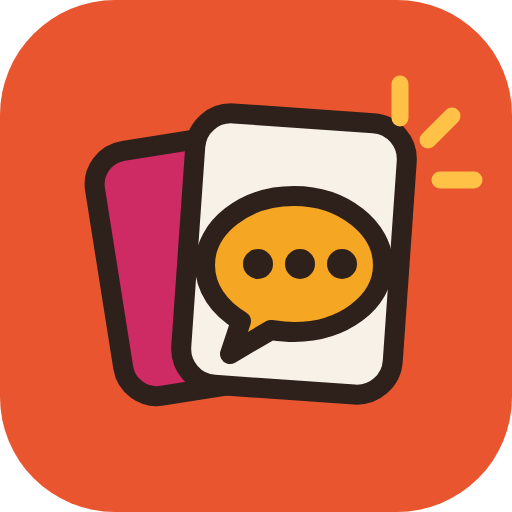
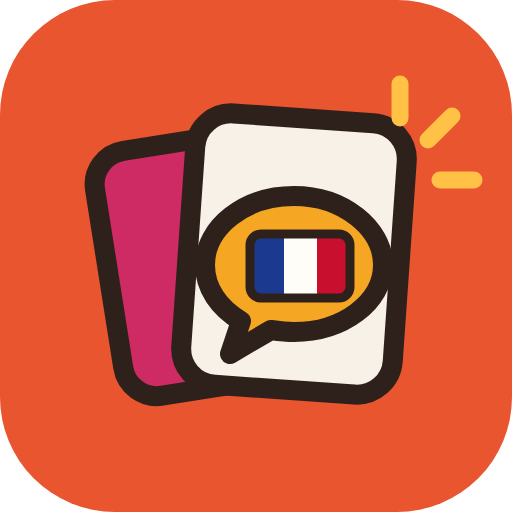
Score each card once, on its first answer, and put the flag in the bubble
A card missed twice then answered right showed as 1 von 3 richtig. The
score now counts each card once and keeps the first attempt, so that
round reads 0 von 1: a retry inside the round no longer repairs a miss.

The icon's speech bubble carries the tricolore, so the app says French at
a glance. The wordmark keeps its three dots: the flag twice is redundant
and muddy at small sizes.

Changed region(s): [[0.4688, 0.4375, 0.7188, 0.5938]]

diff --git a/src/App.tsx b/src/App.tsx
@@ -52,9 +52,12 @@ type Screen =
   | { name: 'placement' }
 
 interface SessionResult {
+  /** Cards answered, counted once each */
   reviewed: number
+  /** Cards right at the first attempt: later retries never repair a miss */
   right: number
   missed: StudyCard[]
+  scored: Set<string>
 }
 
 export default function App() {
@@ -494,7 +497,7 @@ function Review({ queue: initial, onFinish }: { queue: StudyCard[]; onFinish: (r
   const [picked, setPicked] = useState<string | null>(null)
   const [verdict, setVerdict] = useState<Verdict | null>(null)
   const [busy, setBusy] = useState(false)
-  const result = useRef<SessionResult>({ reviewed: 0, right: 0, missed: [] })
+  const result = useRef<SessionResult>({ reviewed: 0, right: 0, missed: [], scored: new Set() })
   const inputRef = useRef<HTMLInputElement | HTMLTextAreaElement>(null)
   const [again, setAgain] = useState<Record<Grade, string> | null>(null)
   const [confirmEnd, setConfirmEnd] = useState(false)
@@ -540,12 +543,13 @@ function Review({ queue: initial, onFinish }: { queue: StudyCard[]; onFinish: (r
     setBusy(true)
     await grade(card.id, g)
     const r = result.current
-    r.reviewed++
-    if (g === Rating.Again) {
-      if (!r.missed.includes(card)) r.missed.push(card)
-    } else {
-      r.right++
+    // Only the first attempt counts: a card you miss and then get right stays missed.
+    if (!r.scored.has(card.id)) {
+      r.scored.add(card.id)
+      r.reviewed++
+      if (g !== Rating.Again) r.right++
     }
+    if (g === Rating.Again && !r.missed.includes(card)) r.missed.push(card)
     // A missed card comes back at the end of this session; a correct one is done for today.
     const rest = queue.slice(1)
     const nextQueue = g === Rating.Again ? [...rest, card] : rest

diff --git a/src/Bits.tsx b/src/Bits.tsx
@@ -13,11 +13,18 @@ export function Mark() {
           fill="var(--gold)"
         />
       </g>
-      <g fill="var(--outline)">
-        <circle cx="258" cy="264" r="15" />
-        <circle cx="300" cy="264" r="15" />
-        <circle cx="342" cy="264" r="15" />
+      {/* the tricolore says which language this is */}
+      <defs>
+        <clipPath id="markFlag">
+          <rect x="250" y="234" width="100" height="64" rx="11" />
+        </clipPath>
+      </defs>
+      <g clipPath="url(#markFlag)">
+        <rect x="250" y="234" width="34" height="64" fill="#1b3a8f" />
+        <rect x="284" y="234" width="33" height="64" fill="#fffdf7" />
+        <rect x="317" y="234" width="33" height="64" fill="#c8102e" />
       </g>
+      <rect x="250" y="234" width="100" height="64" rx="11" fill="none" stroke="var(--outline)" strokeWidth="9" />
       <g stroke="var(--gold)" strokeWidth="17" strokeLinecap="round">
         <path d="M400 118v-34" />
         <path d="M428 140l24-24" />
